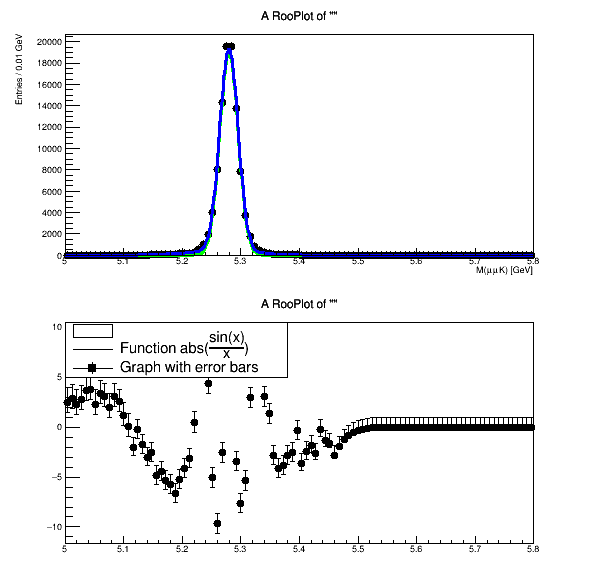
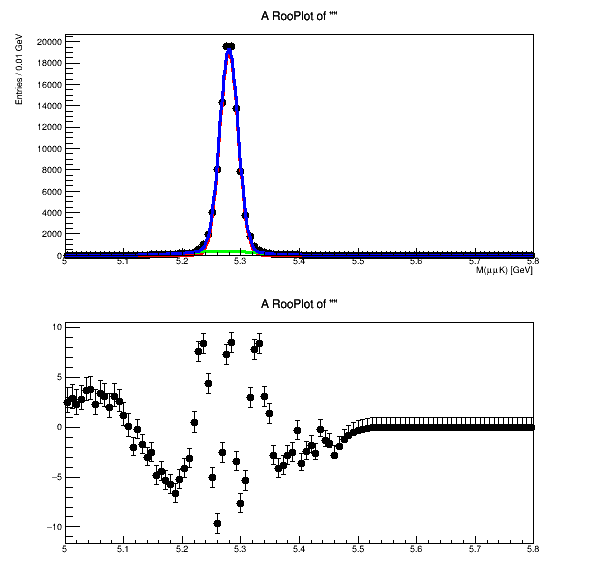
Bug fix

Changed region(s): [[0.1204, 0.5625, 0.4816, 0.6562], [0.3311, 0.4062, 0.4214, 0.4375], [0.1204, 0.5625, 0.1806, 0.5938]]

diff --git a/task2/task2a.C b/task2/task2a.C
@@ -28,7 +28,7 @@
     RooPlot *frame = m.frame();
     rds_mc->plotOn(frame, Name("rds_mc"));
     pdf_sig.plotOn(frame, Name("sig_g1"), Components(RooArgList(sig_g1)), LineColor(kRed));
-    pdf_sig.plotOn(frame, Name("sig_g2"), Components(RooArgList(sig_g1)), LineColor(kGreen));
+    pdf_sig.plotOn(frame, Name("sig_g2"), Components(RooArgList(sig_g2)), LineColor(kGreen));
     pdf_sig.plotOn(frame);
 
     TCanvas* canvas = new TCanvas("canvas", "", 600, 600);
@@ -39,7 +39,7 @@
     frame->Draw();
 
     canvas->cd(2);
-    RooHist* residHist = frame -> pullHist();
+    RooHist* residHist = frame->pullHist();
     RooPlot *frame_resid = m.frame();
     frame_resid->addPlotable(residHist, "P");
   
